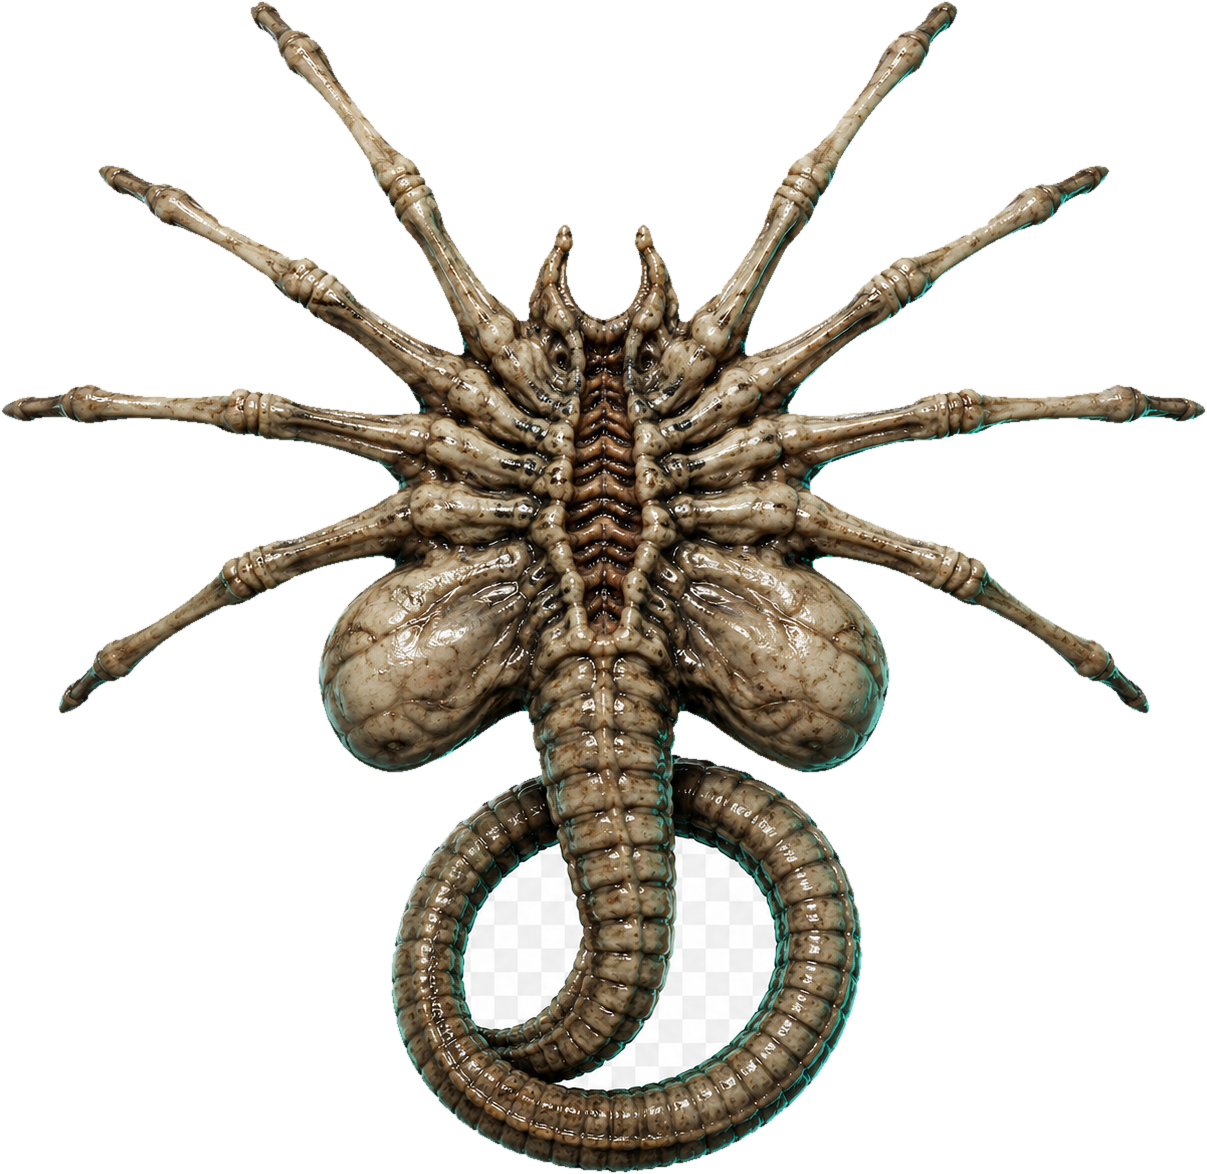
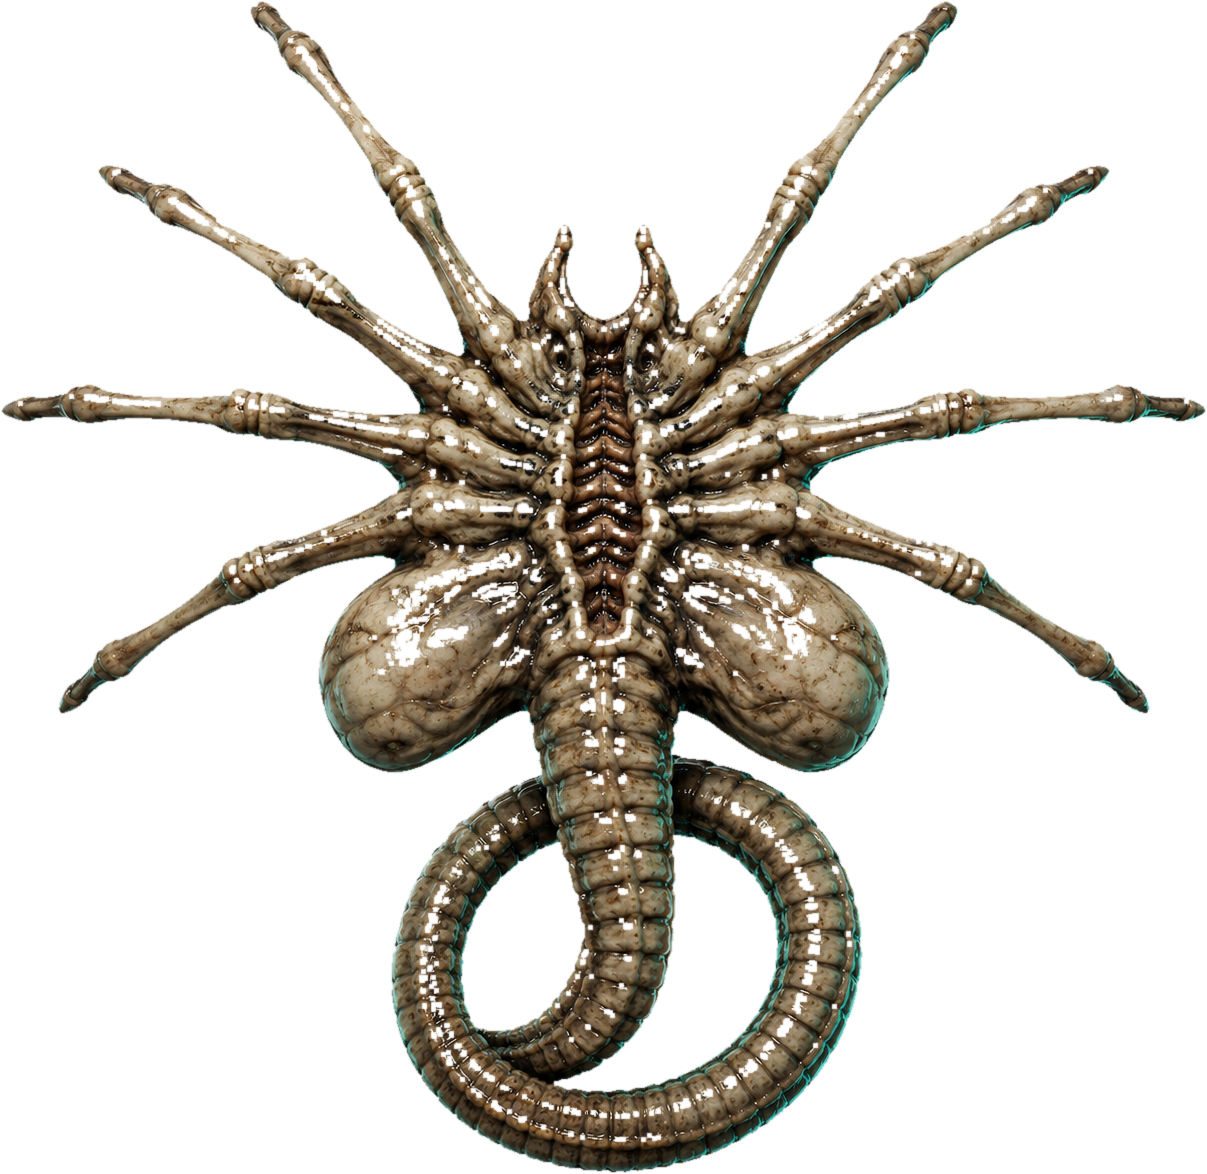
Facehugger roams the ship in 2D, then flies off; cleaner cutout
The facehugger now wanders to random points within the ship deck for
10-15s before darting off the top, instead of crossing once in a straight
line. Re-cut the artwork to remove leftover white (flood-fill + near-white
removal + erode).

diff --git a/game.js b/game.js
@@ -679,14 +679,38 @@ function spawnFacehugger() {
   fh.className = "facehugger";
   fh.innerHTML = '<img src="assets/facehugger.png" alt="" draggable="false">';
   fh.title = "Fangen!";
-  const fromLeft = Math.random() < 0.5;
-  fh.style.top = (28 + Math.random() * 48) + "vh";
-  fh.style.left = fromLeft ? "-70px" : "calc(100vw + 70px)";
   document.body.appendChild(fh);
-  const dur = 9000;
-  setTimeout(() => { fh.style.transition = `left ${dur}ms linear`; fh.style.left = fromLeft ? "calc(100vw + 70px)" : "-70px"; }, 30);
-  const removeT = setTimeout(() => fh.remove(), dur + 300);
-  fh.addEventListener("click", () => { clearTimeout(removeT); catchFacehugger(fh); });
+
+  const size = 78;
+  // Bewegungsfläche = das Schiff (Deck), sonst Fallback Viewport
+  const area = () => {
+    const d = document.getElementById("deck");
+    const r = (d && d.clientWidth) ? d.getBoundingClientRect() : { left: 40, top: 80, width: innerWidth - 80, height: innerHeight - 120 };
+    return r;
+  };
+  const b0 = area();
+  let x = b0.left + Math.random() * Math.max(1, b0.width - size);
+  let y = b0.top + Math.random() * Math.max(1, b0.height - size);
+  let tx = x, ty = y;
+  const pick = () => { const b = area(); tx = b.left + Math.random() * Math.max(1, b.width - size); ty = b.top + Math.random() * Math.max(1, b.height - size); };
+  pick();
+  fh.style.left = x.toFixed(1) + "px"; fh.style.top = y.toFixed(1) + "px";
+
+  const life = 10000 + Math.random() * 5000;   // 10–15 s herumkrabbeln
+  const start = performance.now();
+  let last = start, leaving = false, caught = false, raf = 0;
+  function step(now) {
+    const dt = Math.min(0.05, (now - last) / 1000); last = now;
+    if (!leaving && now - start > life) { leaving = true; ty = area().top - size * 3; tx = x; } // nach oben wegfliegen
+    const dx = tx - x, dy = ty - y, dist = Math.hypot(dx, dy);
+    const sp = leaving ? 460 : 150;
+    if (dist < 6) { if (leaving) { fh.remove(); return; } pick(); }
+    else { const s = Math.min(dist, sp * dt); x += dx / dist * s; y += dy / dist * s; }
+    fh.style.left = x.toFixed(1) + "px"; fh.style.top = y.toFixed(1) + "px";
+    raf = requestAnimationFrame(step);
+  }
+  raf = requestAnimationFrame(step);
+  fh.addEventListener("click", () => { if (caught) return; caught = true; cancelAnimationFrame(raf); catchFacehugger(fh); });
 }
 
 function catchFacehugger(fh) {